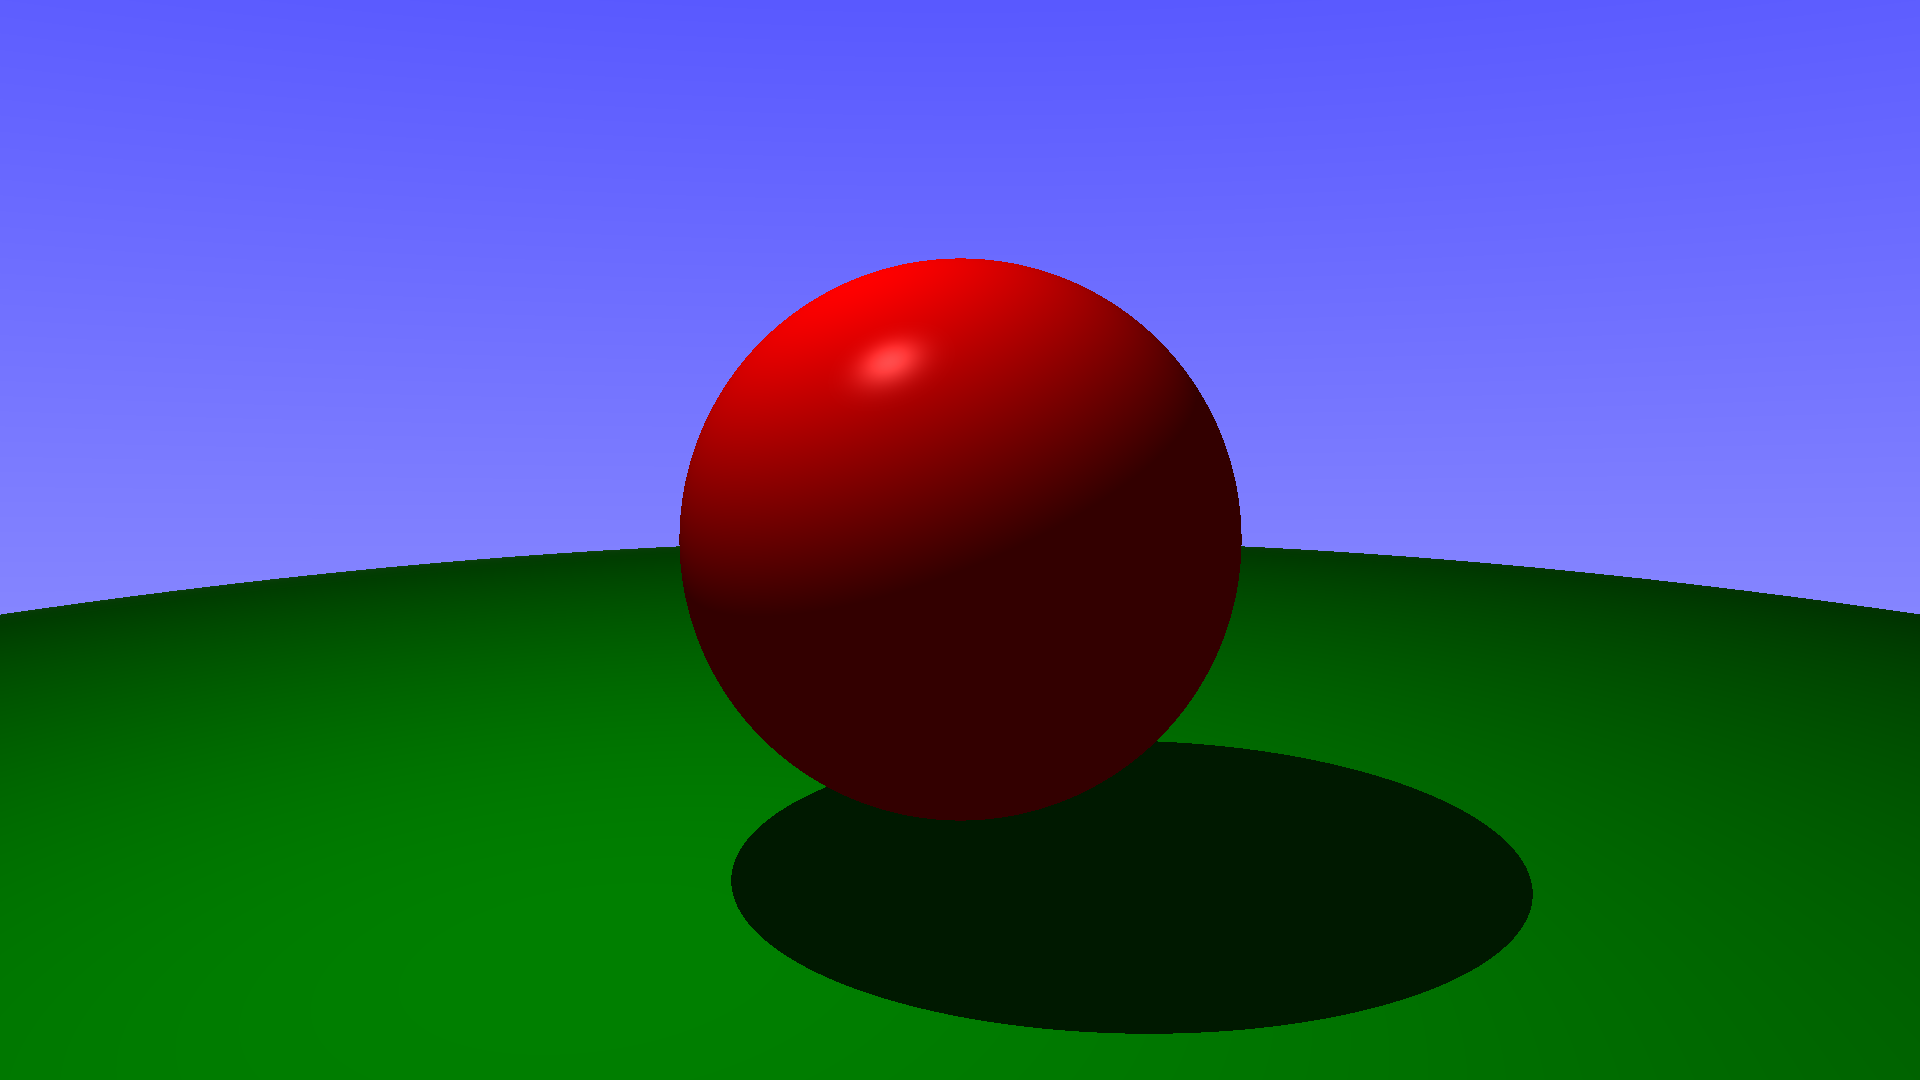
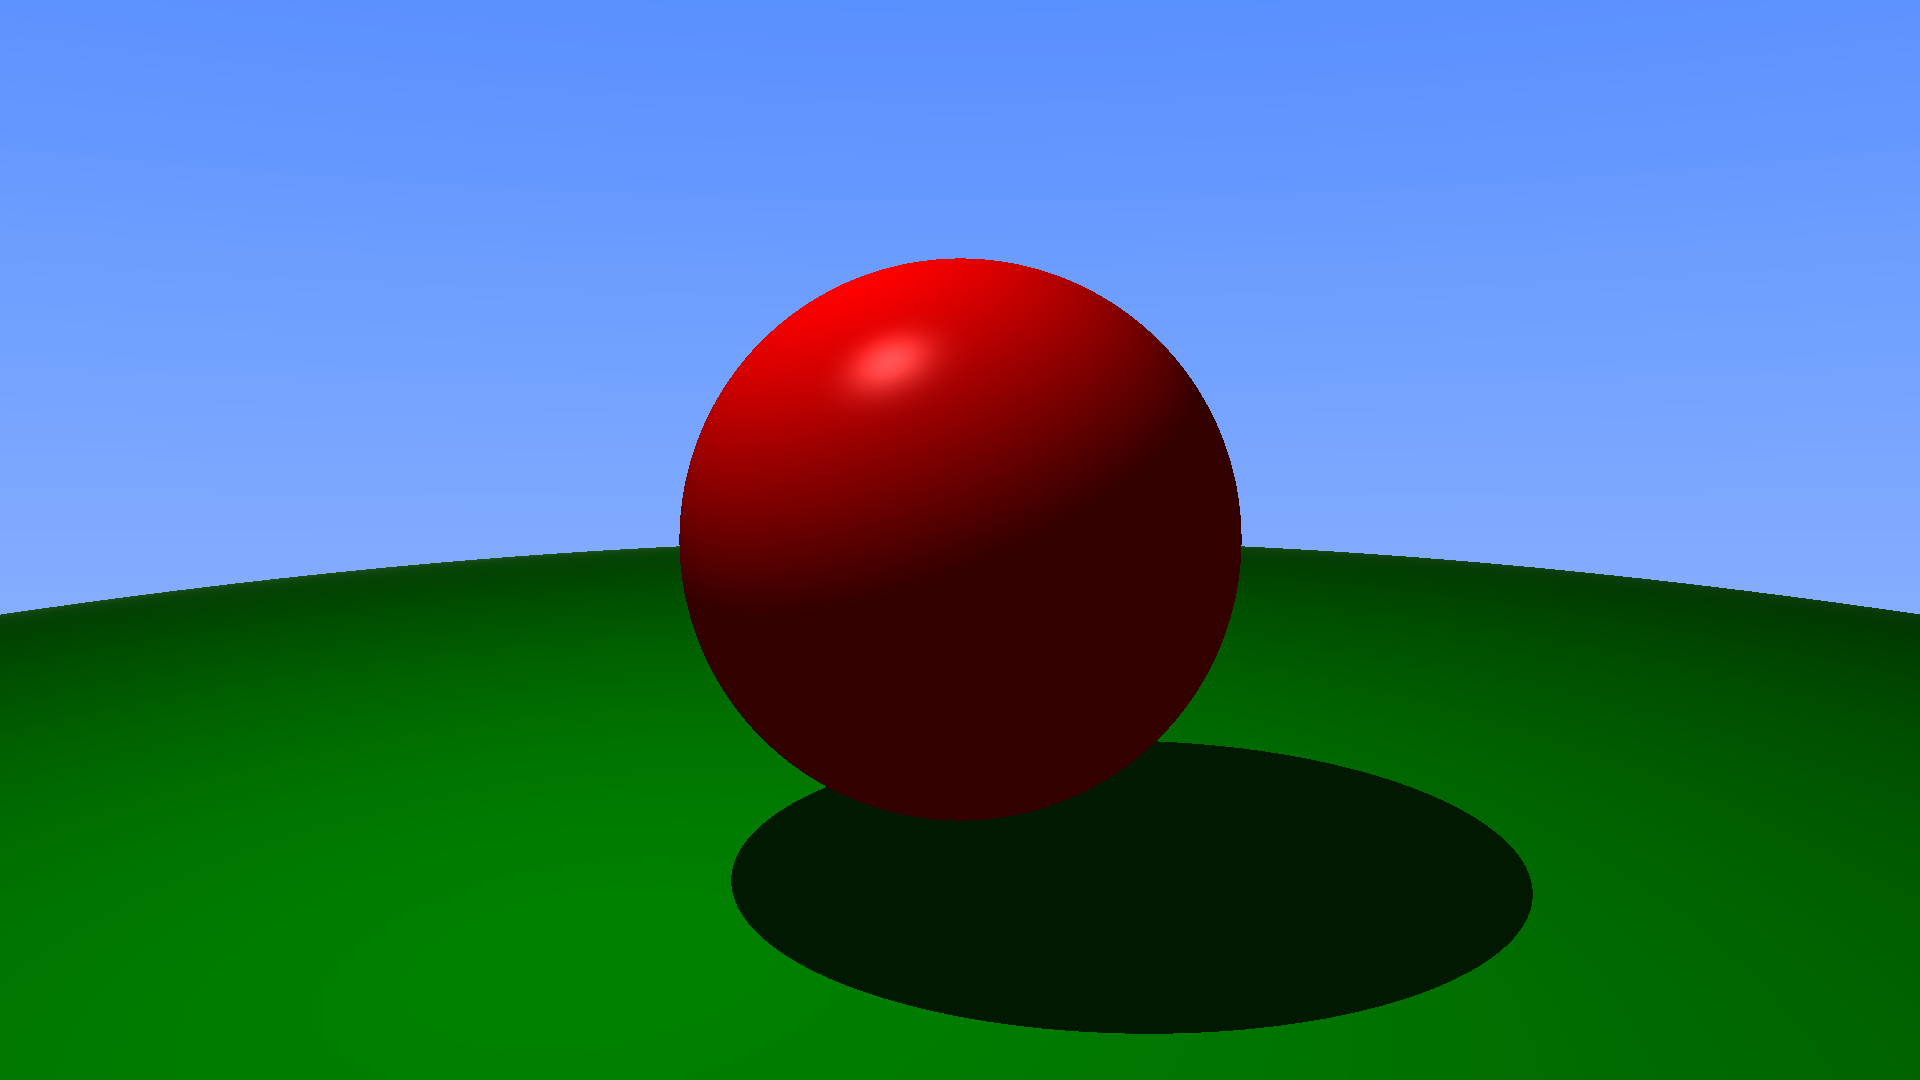
Improve background color

diff --git a/lib/Point.java b/lib/Point.java
@@ -55,7 +55,7 @@ public class Point {
     }
 
     public static Point cross(Point p1, Point p2) {
-        return new Point(p1.y * p2.z - p1.z * p2.z, p1.z * p2.x - p1.x * p2.z, p1.x * p2.y - p1.y * p2.x);
+        return new Point(p1.y * p2.z - p1.z * p2.y, p1.z * p2.x - p1.x * p2.z, p1.x * p2.y - p1.y * p2.x);
     }
 
     public double length() {

diff --git a/Main.java b/Main.java
@@ -4,6 +4,7 @@ import lib.*;
 public class Main {
     public static void main(String[] args) {
         Material plastic = new Material(Material.Type.DIFFUSE);
+        // plastic.setShiny(0.33, 30);
 
         Vector<Sphere> vs = new Vector<Sphere>();
         vs.add(new Sphere(1.5, new Point(0, 0, 0), new Point(255, 0, 0), plastic));

diff --git a/lib/Scene.java b/lib/Scene.java
@@ -127,7 +127,7 @@ public class Scene {
 
         } else { // background
             int shade = (int) ((r.getDir().normalize().getY() + 1) / 2.0 * 255);
-            return new Point(255 - shade, 255 - shade, 255);
+            return new Point(255 - shade, 255 - shade / 1.5, 255);
         }
     }
 
